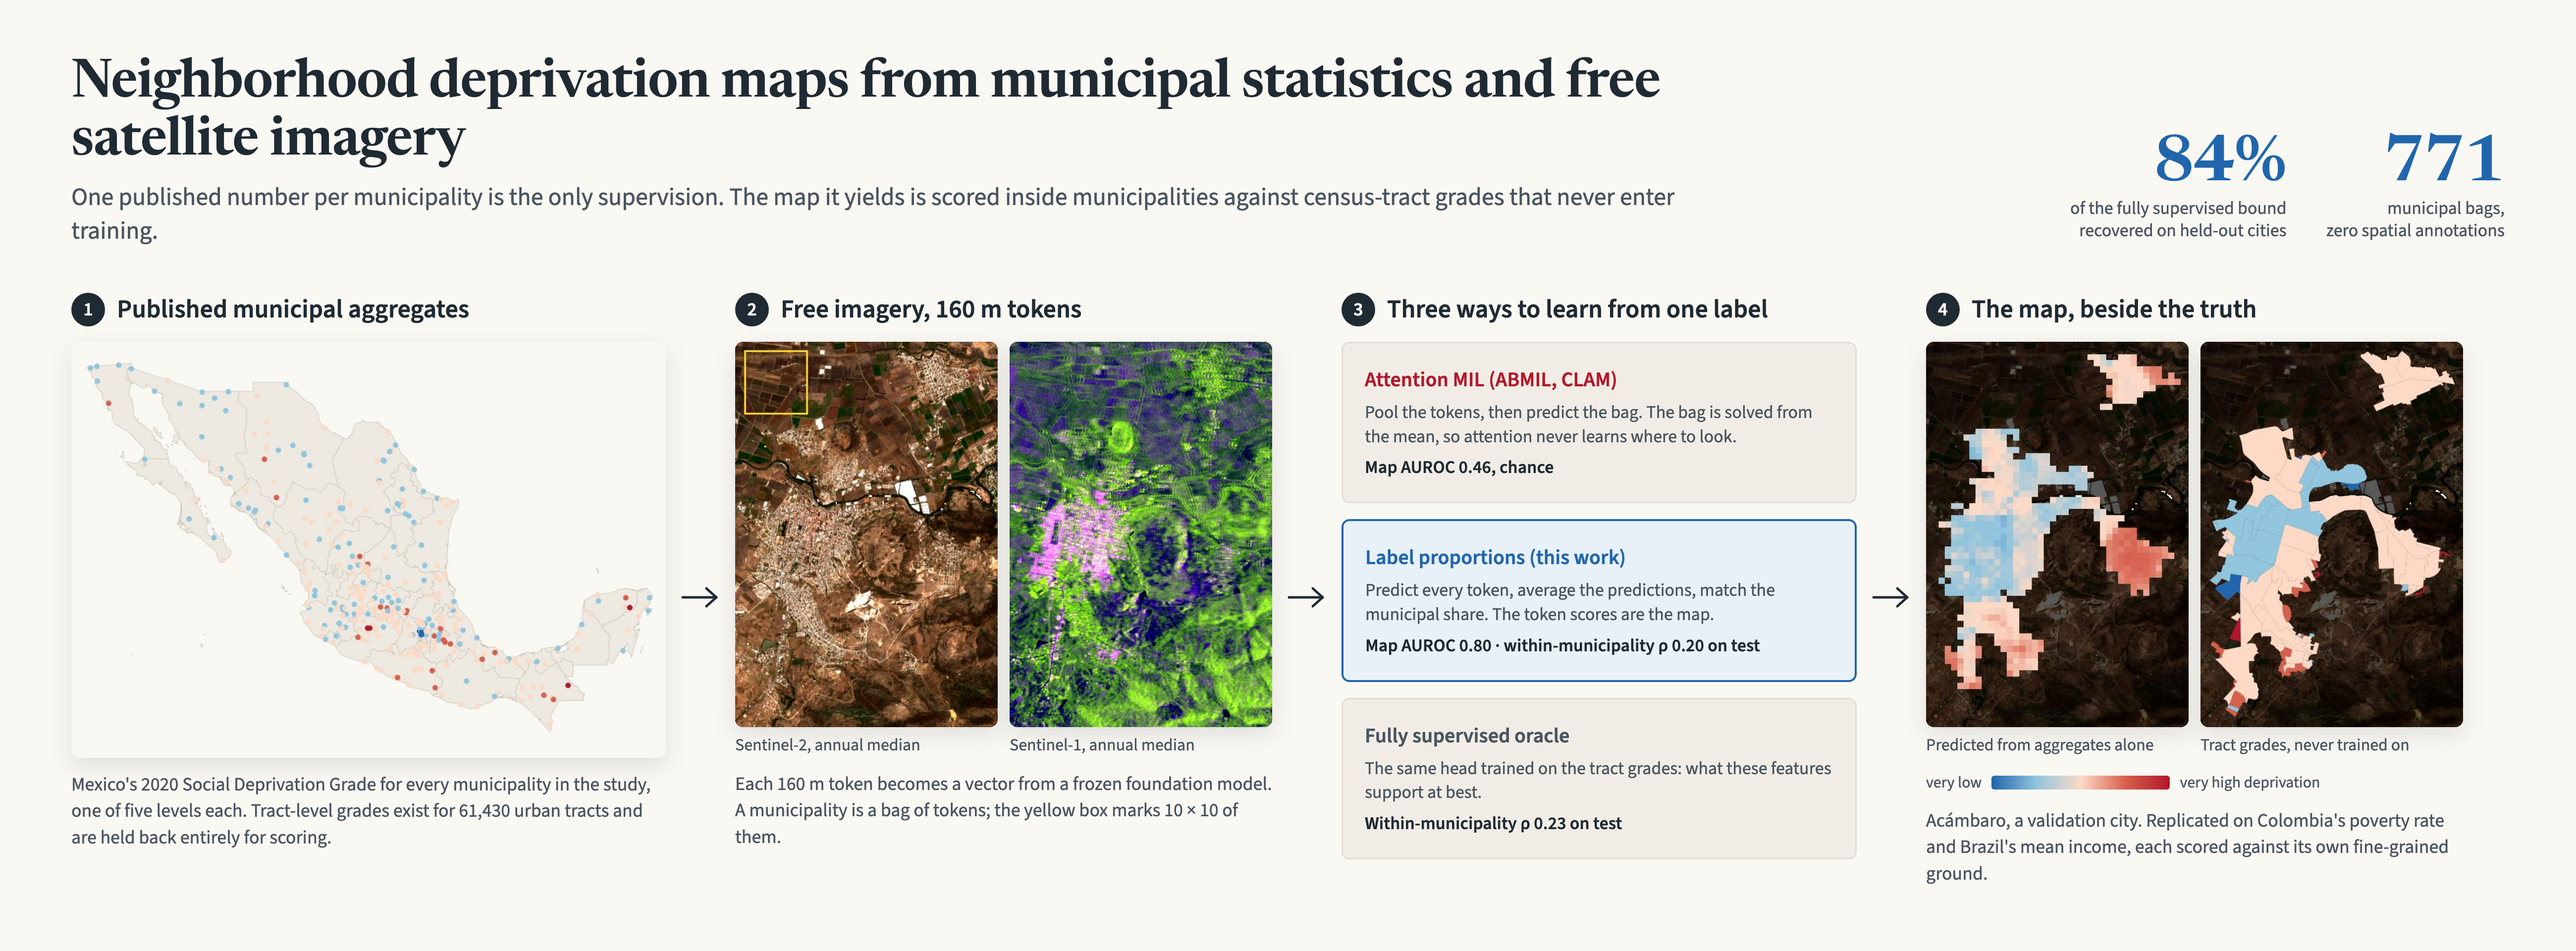
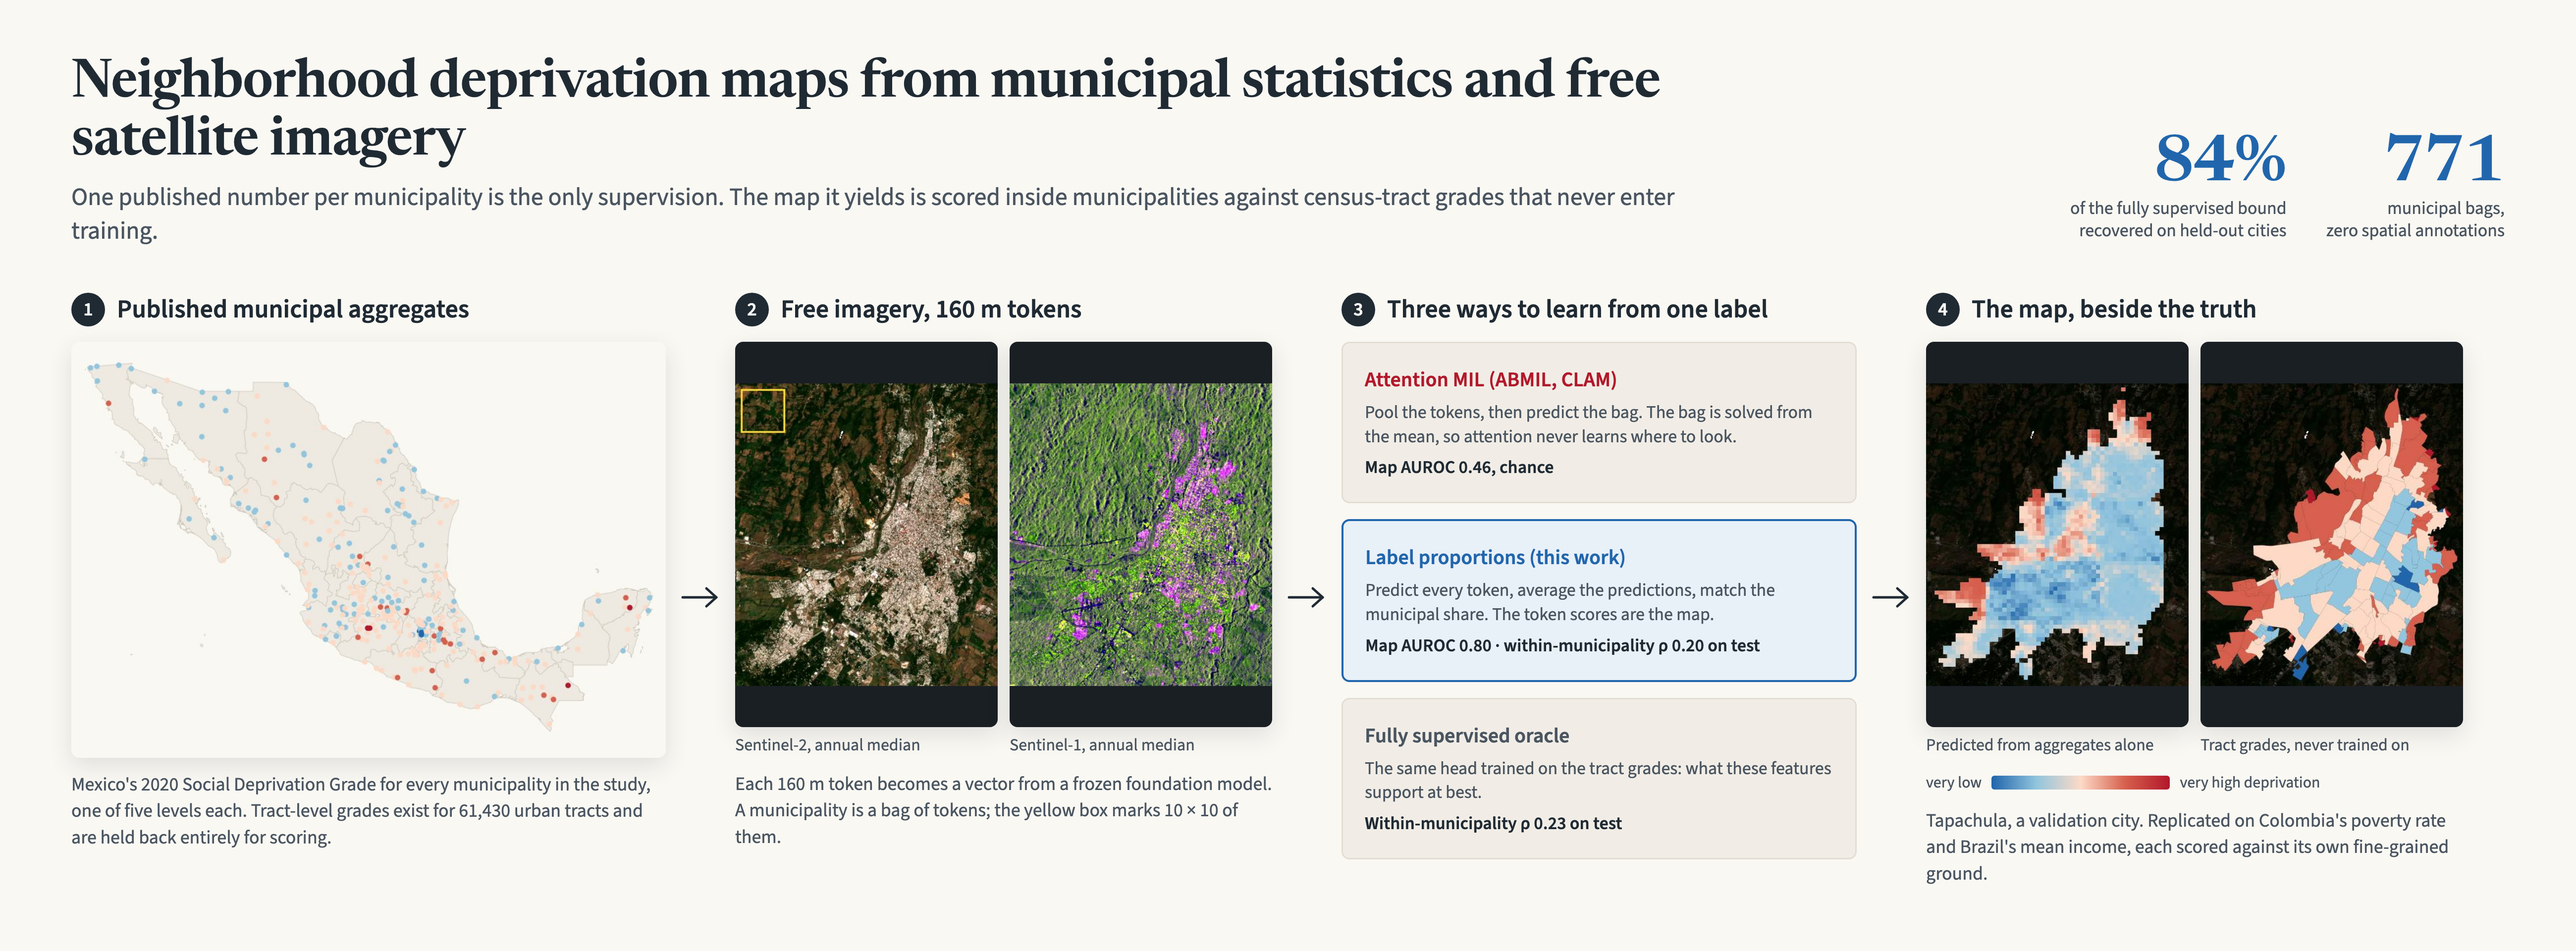
El abstract gráfico muestra Tapachula para no repetir la ciudad de la figura 1

Changed region(s): [[0.2804, 0.3438, 0.4985, 0.7812], [0.7477, 0.3438, 0.9658, 0.7812], [0.7477, 0.8438, 0.9346, 0.875]]

diff --git a/scripts/graphical_abstract.html b/scripts/graphical_abstract.html
@@ -110,7 +110,7 @@
         <img src="ramp.png" style="width: 180px; height: 14px; border-radius: 3px; display: block;">
         <div style="font-size: 16px; color: #4a5560;">very high deprivation</div>
       </div>
-      <div style="font-size: 19px; line-height: 1.4; color: #4a5560;">Acámbaro, a validation city. Replicated on Colombia's poverty rate and Brazil's mean income, each scored against its own fine-grained ground.</div>
+      <div style="font-size: 19px; line-height: 1.4; color: #4a5560;">[[CITY]], a validation city. Replicated on Colombia's poverty rate and Brazil's mean income, each scored against its own fine-grained ground.</div>
     </div>
 
   </div>

diff --git a/scripts/graphical_abstract.py b/scripts/graphical_abstract.py
@@ -50,7 +50,8 @@ from satinsight.tiling import TOKEN_SIZE  # noqa: E402
 sys.path.insert(0, "scripts")
 from fig1_design import CMAP, municipal_points, rgb_of, token_raster  # noqa: E402
 
-CITY = sys.argv[1] if len(sys.argv) > 1 else "acambaro"
+CITY = sys.argv[1] if len(sys.argv) > 1 else "tapachula"
+"""Tapachula by default: Figure 1 already shows Acámbaro, and a second city shows more."""
 TEMPLATE = Path("scripts/graphical_abstract.html")
 OUT = Path("docs/manuscript/figures/graphical_abstract")
 CHROME = (
@@ -211,6 +212,7 @@ def main() -> None:
         "[[LLP_AUROC]]": f"{book['curve']['771']['auroc_high']:.2f}",
         "[[LLP_TEST]]": f"{book['test']['headline_token_within']:.2f}",
         "[[ORACLE_TEST]]": f"{book['test']['ceiling_r1']:.2f}",
+        "[[CITY]]": agebs.cities_by_size(stratify=True)[CITY].name,
     }
     for key, value in numbers.items():
         assert page.count(key) == 1, key
